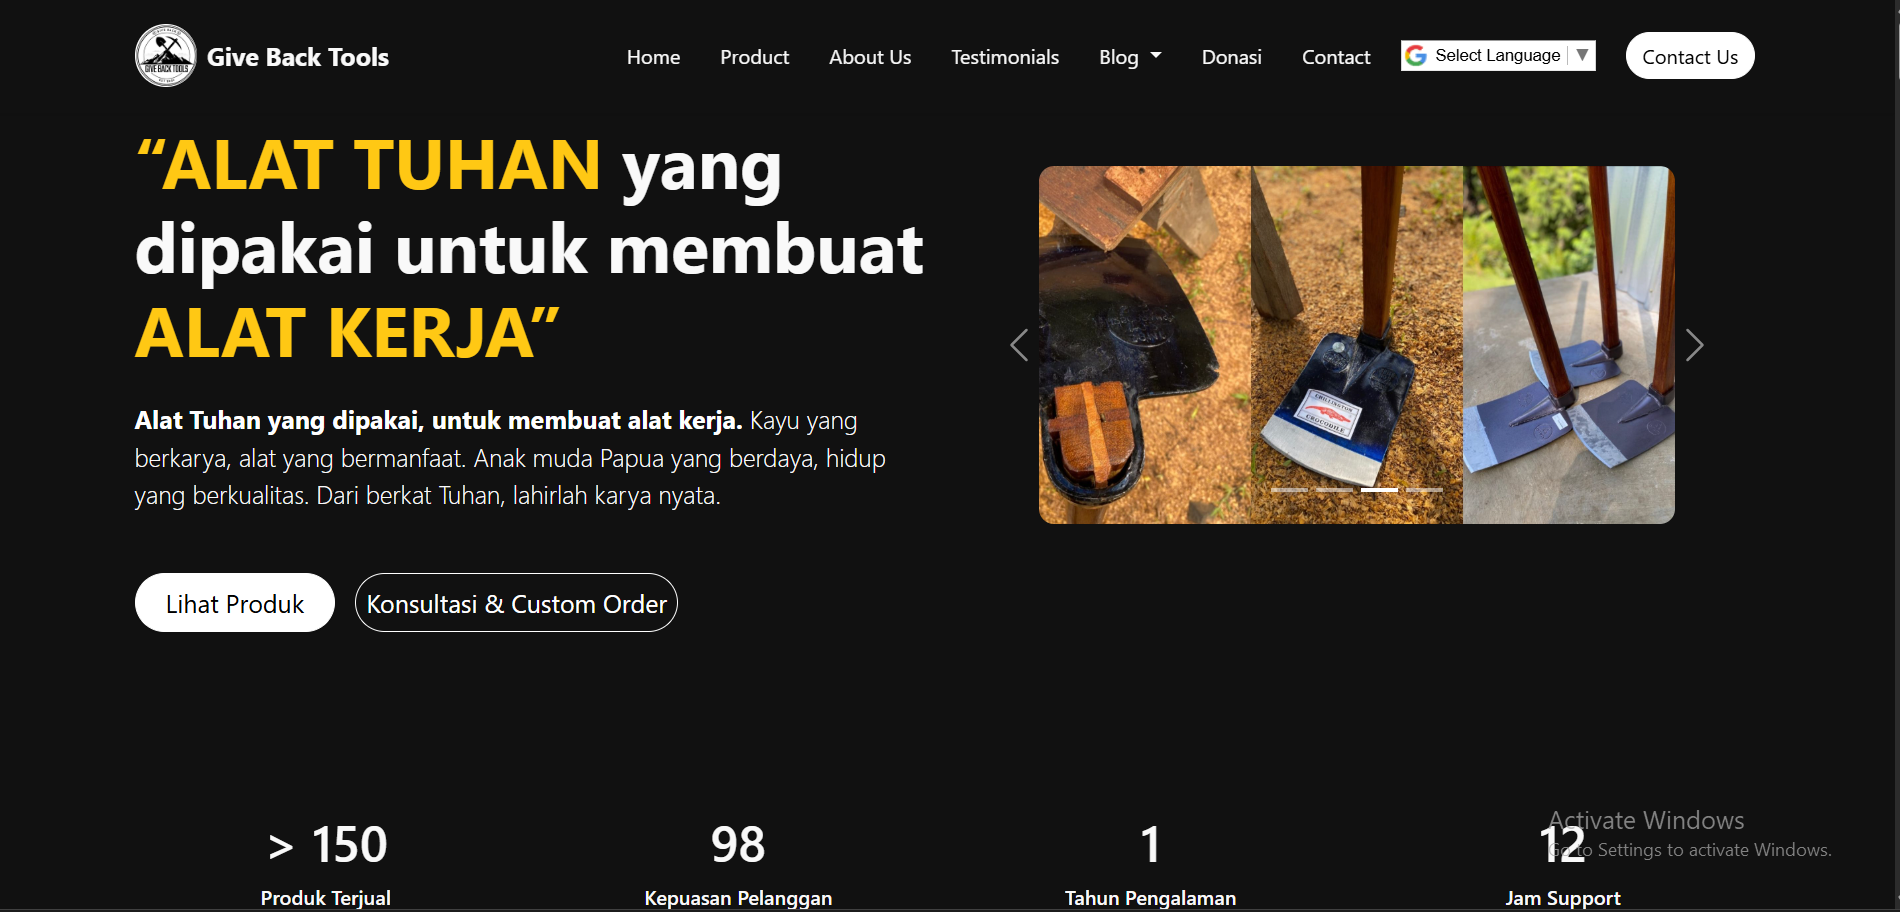
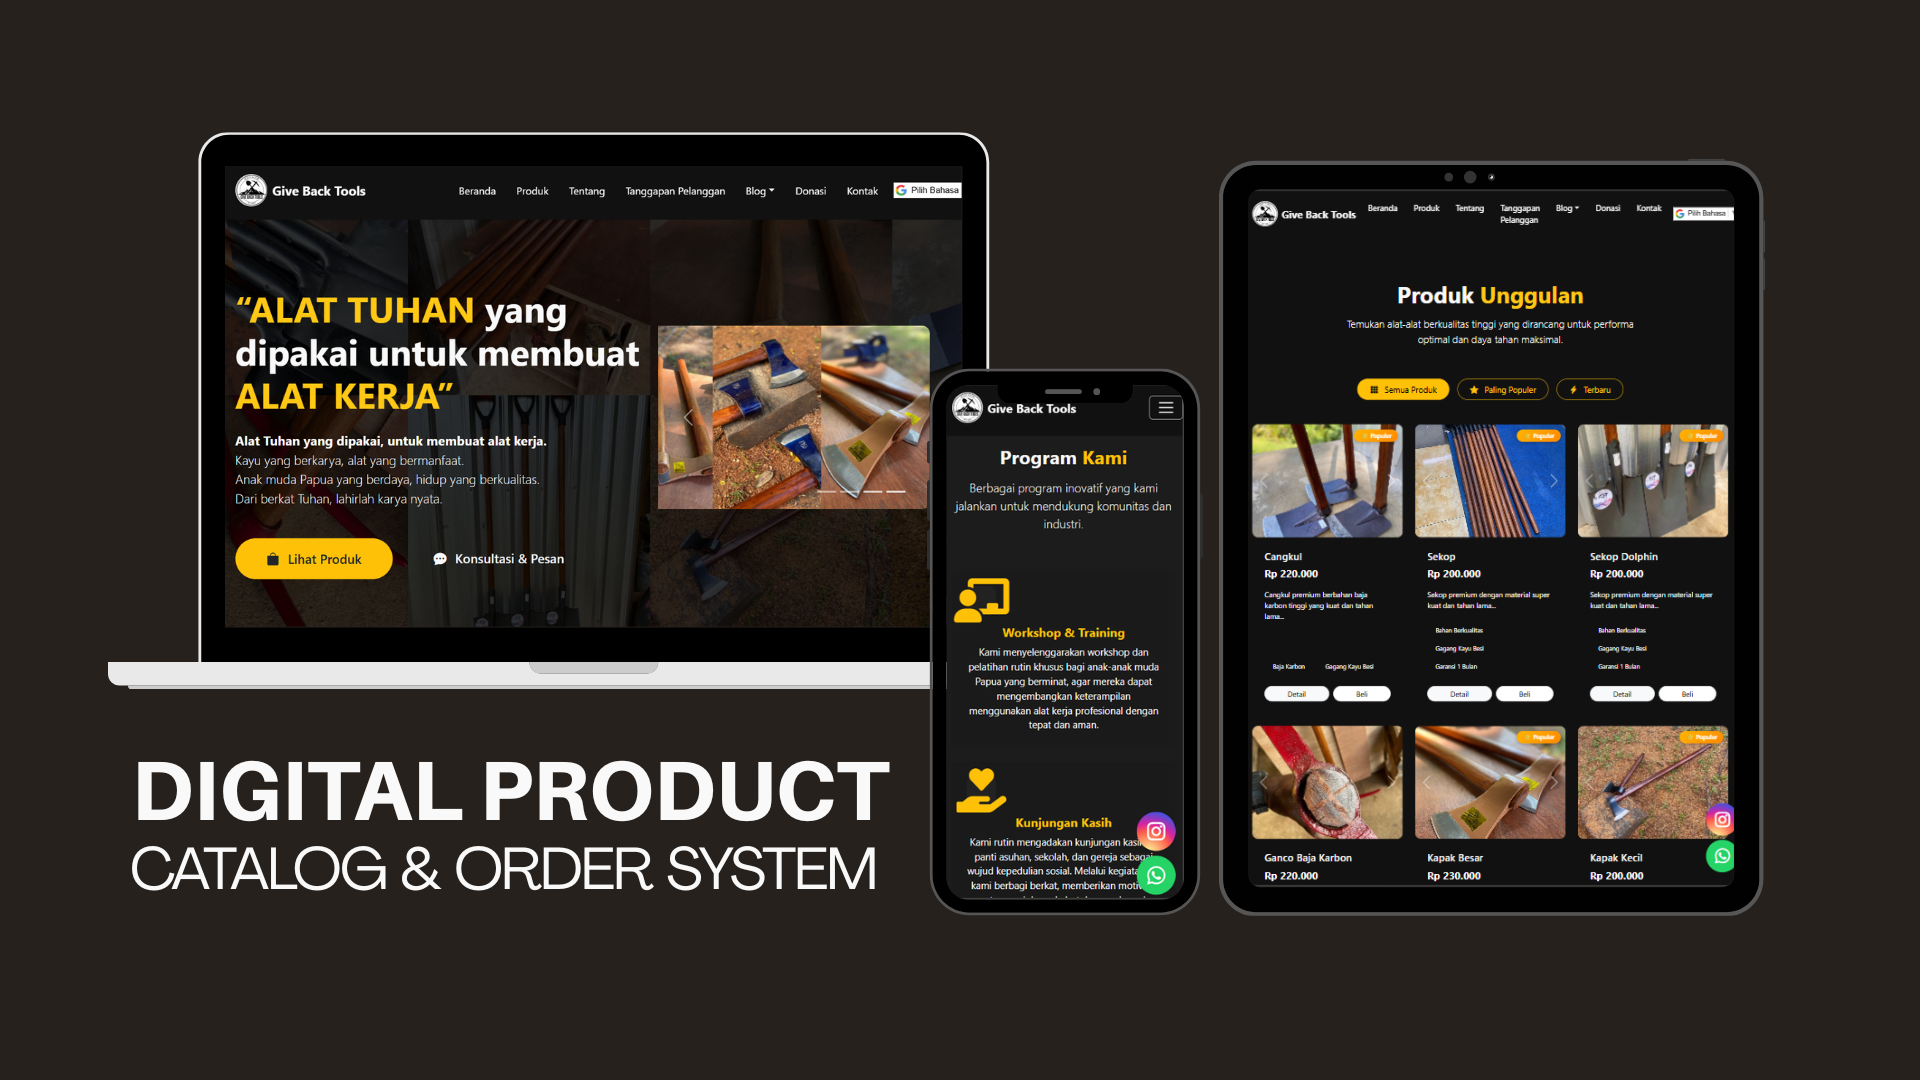
update Portfolio

diff --git a/index.html b/index.html
@@ -333,7 +333,7 @@
                 class="img-fluid rounded"
                 alt="project"
               >
-              <h5 class="mt-3 text-primary fw-bold">Website Pribadi</h5>
+              <h5 class="mt-3 text-primary fw-bold">Personal Web</h5>
               <p class="small text-white">
                 Personal web ini saya bangun mulai dari desain, layout, sampai
                 coding. Dibuat responsif, rapi, dan mencerminkan kemampuan serta
@@ -388,6 +388,27 @@
               <a
                 class="btn btn-sm btn-outline-light"
                 href="https://sttgidi.com/"
+                target="_blank"
+                >View Live</a
+              >
+            </article>
+          </div>
+          <div class="col-md-4">
+            <article class="card p-3 glass-card">
+              <img
+                src="assets/img/card_4.png"
+                class="img-fluid rounded"
+                alt="project"
+              >
+              <h5 class="mt-3 text-primary fw-bold">
+                Restaurant Digital Menu
+              </h5>
+              <p class="small text-white">
+                Menu digital sederhana dan profesional yang membantu restoran menampilkan daftar makanan dan minuman secara online. Pelanggan dapat dengan mudah melihat menu melalui ponsel mereka, sehingga pengalaman memesan menjadi lebih cepat dan praktis. 🚀
+              </p>
+              <a
+                class="btn btn-sm btn-outline-light"
+                href="https://www.isasaimenu.online/"
                 target="_blank"
                 >View Live</a
               >
@@ -612,6 +633,6 @@
 
     <script src="https://cdn.jsdelivr.net/npm/bootstrap@5.3.2/dist/js/bootstrap.bundle.min.js"></script>
     <script src="script.js"></script>
-    
+
   </body>
 </html>
